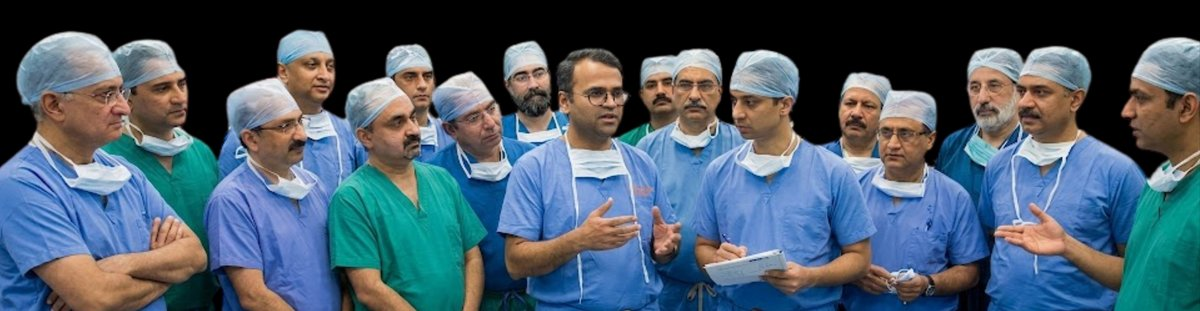
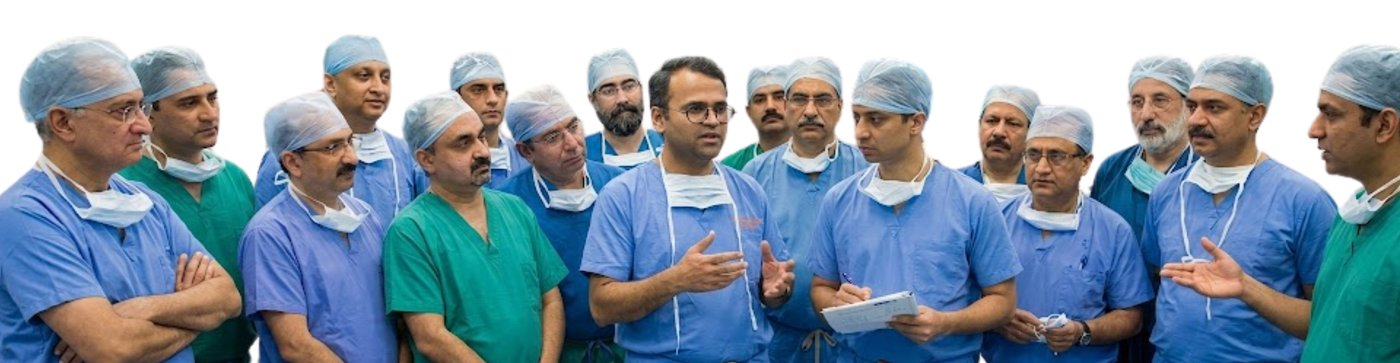
Add files via upload

diff --git a/base/templates/base/components/footer.html b/base/templates/base/components/footer.html
@@ -1,144 +1,34 @@
 {% load static %}
 <footer id="site-footer">
-    <div class="footer-top">
-      <div class="container">
-        <div class="footer-row">
-                      <div class="footer-block wow fadeInUp">
-                    <!-- <div class="footer-block wow fadeInUp"> -->
-            <h4 class="block-title">For Patients</h4>
-            <ul class="footer-links">
-              <li><a href="/contact-us">Find a Doctor</a></li>
-              <!-- <li><a href="#">Video Consultation</a></li> -->
-              <li><a href="/treatments">Treatments</a></li>
-              <li><a href="#" data-toggle="modal" data-target="#deleteMemberModal">Disclaimer</a></li>
-              <li><a href="/patient/terms-conditions" target="_blank">Terms & Conditions</a></li>
-            </ul>
-          </div>
-                      <div class="footer-block wow fadeInUp"  data-wow-delay=".2s">
-                      <h4 class="block-title">Specialities</h4>
-            <ul class="footer-links">
-                                          <li>
-                <a href="/contact-us">Cardiac Care</a>
-              </li>
-
-            </ul>
-          </div>
-                      <div class="footer-block wow fadeInUp"  data-wow-delay=".4s">
-                      <h4 class="block-title">Our Clinic</h4>
-            <ul class="footer-links">
-
-                            <li><a href="/contact-us"> Amritsar</a></li>
-                            <!-- <li><a href="#">More+</a></li> -->
-            </ul>
-          </div>
-                      <div class="footer-block wow fadeInUp"  data-wow-delay=".6s">
-                      <h4 class="block-title">Corporate</h4>
-            <ul class="footer-links">
-              <li><a href="/help-desk">Help Desk</a></li>
-              <li><a href="/about">About us</a></li>
-              <li><a href="/blog">Blogs</a></li>
-              <!-- <li><a href="#">Leadership</a></li> -->
-              <li><a href="/careers">Careers</a></li>
-              <li><a href="/contact-us?type=feedback">Feedback</a></li>
-              <li><a href="/contact-us">Contact Us</a></li>
-            </ul>
-          </div>
-
-                      <div class="footer-block add-download-block wow fadeInUp" data-wow-delay=".8s">
-                      <div class="app-download-header">
-              <h4 class="block-title">Download Our App</h4>
-              <p>Download our App to book your appointments at your finger tips</p>
-            </div>
-            <a href="#" target="_blank"
-              class="download-app-button andoid-app-button"><span><svg width="25" height="24" viewBox="0 0 25 24"
-                  fill="none" xmlns="https://www.w3.org/2000/svg">
-                  <path
-                    d="M4.24056 0.61L19.0764 8.156L15.8965 10.969L4.24056 0.61ZM1.16691 0L14.7853 12L1.16804 24C0.809274 23.8618 0.505995 23.631 0.297857 23.3379C0.0897194 23.0448 -0.0135906 22.7029 0.00143423 22.357V22.36V1.641L0.000303796 1.576C0.000303796 0.875 0.475086 0.272 1.15561 0.005L1.16804 0.001L1.16691 0ZM23.6874 10.594C24.1554 10.901 24.455 11.389 24.455 11.938L24.4539 12.003V12C24.4826 12.2683 24.4322 12.5386 24.3076 12.7845C24.183 13.0304 23.9884 13.2435 23.7428 13.403L23.7383 13.406L20.5584 14.999L17.1151 12L20.5595 8.953L23.6874 10.594ZM4.24056 23.39L15.8976 13.031L19.0775 15.844L4.24056 23.39Z"
-                    fill="#444545" />
-                </svg>
-                Get it on Google Play</span></a>
-            <a href="#" target="_blank"
-              class="download-app-button ios-app-button"><span><svg width="21" height="26" viewBox="0 0 21 26"
-                  fill="none" xmlns="https://www.w3.org/2000/svg">
-                  <path
-                    d="M15.64 0.0129344C15.5851 -0.0484503 13.6063 0.0371652 11.8843 1.90617C10.1623 3.77355 10.4272 5.91556 10.466 5.97048C10.5047 6.0254 12.9214 6.11102 14.464 3.93832C16.0067 1.76563 15.695 0.0759345 15.64 0.0129344ZM20.9934 18.9663C20.9159 18.8112 17.2377 16.9729 17.5801 13.4384C17.9226 9.90233 20.2859 8.9331 20.3231 8.8281C20.3602 8.7231 19.3587 7.55194 18.2974 6.9591C17.5181 6.54112 16.6557 6.30165 15.7725 6.25802C15.598 6.25317 14.9923 6.10456 13.7468 6.4454C12.9262 6.66994 11.0766 7.39686 10.5677 7.42594C10.0573 7.45502 8.53881 6.58271 6.90566 6.35171C5.8605 6.14979 4.75235 6.56333 3.95919 6.88156C3.16765 7.19817 1.66211 8.09956 0.608881 10.4952C-0.444351 12.8892 0.106496 16.6821 0.50065 17.8613C0.894804 19.039 1.51027 20.9693 2.55704 22.378C3.4875 23.9675 4.72165 25.0708 5.23696 25.4456C5.75227 25.8203 7.20612 26.0691 8.21412 25.5538C9.02504 25.0563 10.4886 24.7703 11.0669 24.7913C11.6436 24.8123 12.7808 25.0401 13.9455 25.662C14.8679 25.9803 15.7402 25.8478 16.6141 25.4924C17.4881 25.1354 18.7529 23.7817 20.2294 21.0372C20.7899 19.761 21.0451 19.0713 20.9934 18.9663Z"
-                    fill="#474848" />
-                </svg>
-                Get it on the App Store</span></a>
-            <a href="tel:+919646076888" class="download-app-button emergency-call-button"><span><svg width="29" height="28"
-                  viewBox="0 0 29 28" fill="none" xmlns="https://www.w3.org/2000/svg">
-                  <path
-                    d="M19.125 10.4271L19.0705 10.5092L19.125 10.4271C18.6914 10.1391 18.2278 9.89171 17.7471 9.69181L17.7087 9.78414L17.7471 9.69181C16.7469 9.27589 15.6846 9.06504 14.5903 9.06504C13.496 9.06504 12.4337 9.27589 11.4334 9.69181L11.4334 9.69181C10.9527 9.89171 10.4891 10.1391 10.0555 10.4271L10.11 10.5092L10.0555 10.4271C9.62607 10.7123 9.22234 11.0397 8.85541 11.4005C8.48848 11.7612 8.15533 12.1581 7.86517 12.5804L7.86517 12.5804C7.57216 13.0068 7.32044 13.4627 7.11701 13.9355L7.20887 13.975L7.11701 13.9355C6.69374 14.9193 6.47912 15.9643 6.47912 17.0408V22.1762C6.47912 22.616 6.12264 22.9724 5.6829 22.9724C5.0524 22.9724 4.53672 23.477 4.53672 24.1009V25.9714C4.53672 26.5954 5.0524 27.0999 5.6829 27.0999H23.4977C24.1282 27.0999 24.6439 26.5954 24.6439 25.9714V24.1009C24.6439 23.477 24.1282 22.9724 23.4977 22.9724C23.0579 22.9724 22.7014 22.6159 22.7014 22.1762V17.0408C22.7014 15.9643 22.4868 14.9193 22.0635 13.9355C21.8601 13.4627 21.6084 13.0067 21.3153 12.5804C21.0252 12.1581 20.692 11.7612 20.3251 11.4005C19.9582 11.0397 19.5545 10.7123 19.125 10.4271ZM7.70902 17.0408C7.70902 13.3132 10.7944 10.2775 14.5903 10.2775C18.3861 10.2775 21.4715 13.3132 21.4715 17.0408C21.4715 20.3167 18.8158 22.9724 15.5398 22.9724H13.6407C10.3647 22.9724 7.70902 20.3167 7.70902 17.0408ZM23.414 24.1849V25.8874H5.76662V24.1849H23.414Z"
-                    fill="white" stroke="#F04E30" stroke-width="0.2" />
-                  <path
-                    d="M14.5925 0.9H14.5924C14.2548 0.9 13.9781 1.16952 13.9781 1.50557V7.1671C13.9781 7.50314 14.2548 7.77267 14.5924 7.77267H14.5925C14.9301 7.77267 15.2067 7.50314 15.2067 7.1671V1.50557C15.2067 1.16952 14.9301 0.9 14.5925 0.9Z"
-                    fill="white" stroke="#F04E30" stroke-width="0.2" />
-                  <path
-                    d="M10.1123 8.78825L10.1123 8.78824C10.4169 8.64213 10.5451 8.27938 10.3954 7.97757L10.3954 7.97756L7.87093 2.88905C7.87093 2.88905 7.87093 2.88904 7.87093 2.88904C7.7217 2.5882 7.35413 2.46491 7.05042 2.61051L7.0504 2.61051C6.74577 2.75663 6.61755 3.11938 6.76725 3.42119L6.76725 3.4212L9.29071 8.50754C9.29105 8.50828 9.29141 8.50902 9.29177 8.50975C9.44101 8.81057 9.80856 8.93384 10.1123 8.78825Z"
-                    fill="white" stroke="#F04E30" stroke-width="0.2" />
-                  <path
-                    d="M6.53593 11.7875C6.74579 11.5234 6.69771 11.142 6.42989 10.9363L1.89186 7.45075C1.89186 7.45075 1.89186 7.45075 1.89186 7.45075C1.62504 7.24581 1.23984 7.29191 1.03076 7.55498C0.820874 7.81909 0.868951 8.20049 1.13678 8.4062L5.67474 11.8917C5.94064 12.096 6.3241 12.0509 6.53366 11.7902C6.53443 11.7893 6.53519 11.7884 6.53593 11.7875Z"
-                    fill="white" stroke="#F04E30" stroke-width="0.2" />
-                  <path
-                    d="M21.3113 2.88907L21.3113 2.88906C21.4606 2.58827 21.828 2.46485 22.1318 2.61053L21.3113 2.88907ZM21.3113 2.88907L18.7868 7.97752L18.7868 7.97753C18.6371 8.27932 18.7653 8.64215 19.0699 8.78821L21.3113 2.88907Z"
-                    fill="white" stroke="#F04E30" stroke-width="0.2" />
-                  <mask id="path-6-outside-1_2265_210338" maskUnits="userSpaceOnUse" x="21.6172" y="6.42383" width="7"
-                    height="6" fill="black">
-                    <rect fill="white" x="21.6172" y="6.42383" width="7" height="6" />
-                    <path
-                      d="M-nan -nanL28.0747 7.61818C27.8999 7.39813 27.5767 7.35912 27.3528 7.53104L22.8149 11.0166C22.591 11.1885 22.5514 11.5062 22.7262 11.7263C22.9011 11.9463 23.2243 11.9853 23.4481 11.8134L27.9861 8.32787C28.2099 8.15595 28.2496 7.83823 28.0747 7.61818L-nan -nanL-nan -nanZ" />
-                  </mask>
-                  <path
-                    d="M-nan -nanL28.0747 7.61818C27.8999 7.39813 27.5767 7.35912 27.3528 7.53104L22.8149 11.0166C22.591 11.1885 22.5514 11.5062 22.7262 11.7263C22.9011 11.9463 23.2243 11.9853 23.4481 11.8134L27.9861 8.32787C28.2099 8.15595 28.2496 7.83823 28.0747 7.61818L-nan -nanL-nan -nanZ"
-                    fill="white" />
-                  <path
-                    d="M27.3528 7.53104L27.231 7.37242L27.231 7.37242L27.3528 7.53104ZM22.8149 11.0166L22.9367 11.1752L22.9367 11.1752L22.8149 11.0166ZM23.4481 11.8134L23.57 11.972H23.57L23.4481 11.8134ZM27.9861 8.32787L27.8643 8.16926L27.8643 8.16926L27.9861 8.32787ZM28.2313 7.49374C27.988 7.18764 27.5408 7.13447 27.231 7.37242L27.4747 7.68965C27.6125 7.58377 27.8117 7.60862 27.9182 7.74261L28.2313 7.49374ZM27.231 7.37242L22.6931 10.858L22.9367 11.1752L27.4747 7.68965L27.231 7.37242ZM22.6931 10.858C22.3812 11.0975 22.3248 11.5425 22.5697 11.8507L22.8828 11.6018C22.778 11.4699 22.8009 11.2795 22.9367 11.1752L22.6931 10.858ZM22.5697 11.8507C22.8129 12.1568 23.2602 12.21 23.57 11.972L23.3263 11.6548C23.1885 11.7607 22.9893 11.7358 22.8828 11.6018L22.5697 11.8507ZM23.57 11.972L28.1079 8.48648L27.8643 8.16926L23.3263 11.6548L23.57 11.972ZM28.1079 8.48648C28.4197 8.24698 28.4762 7.80191 28.2313 7.49374L27.9182 7.74261C28.023 7.87455 28.0001 8.06492 27.8643 8.16926L28.1079 8.48648Z"
-                    fill="#F04E30" mask="url(#path-6-outside-1_2265_210338)" />
-                  <mask id="path-8-outside-2_2265_210338" maskUnits="userSpaceOnUse" x="12.793" y="11.1934" width="6"
-                    height="6" fill="black">
-                    <rect fill="white" x="12.793" y="11.1934" width="6" height="6" />
-                    <path
-                      d="M-nan -nanL17.3272 13.456C16.9313 13.0602 16.4701 12.7494 15.9563 12.5322C15.4242 12.3074 14.859 12.1934 14.2766 12.1934C14.0095 12.1934 13.793 12.4099 13.793 12.677C13.793 12.9441 14.0095 13.1606 14.2766 13.1606C16.1216 13.1606 17.6226 14.6617 17.6226 16.5066C17.6226 16.7737 17.8392 16.9903 18.1063 16.9903C18.3734 16.9903 18.5899 16.7737 18.5899 16.5066C18.5899 15.9241 18.4759 15.3591 18.251 14.827C18.0339 14.3132 17.7231 13.8519 17.3272 13.456L-nan -nanL-nan -nanZ" />
-                  </mask>
-                  <path
-                    d="M-nan -nanL17.3272 13.456C16.9313 13.0602 16.4701 12.7494 15.9563 12.5322C15.4242 12.3074 14.859 12.1934 14.2766 12.1934C14.0095 12.1934 13.793 12.4099 13.793 12.677C13.793 12.9441 14.0095 13.1606 14.2766 13.1606C16.1216 13.1606 17.6226 14.6617 17.6226 16.5066C17.6226 16.7737 17.8392 16.9903 18.1063 16.9903C18.3734 16.9903 18.5899 16.7737 18.5899 16.5066C18.5899 15.9241 18.4759 15.3591 18.251 14.827C18.0339 14.3132 17.7231 13.8519 17.3272 13.456L-nan -nanL-nan -nanZ"
-                    fill="white" />
-                  <path
-                    d="M15.9563 12.5322L15.8784 12.7165L15.8784 12.7165L15.9563 12.5322ZM18.251 14.827L18.0668 14.9048L18.0668 14.9049L18.251 14.827ZM17.4686 13.3146C17.0546 12.9006 16.5718 12.5752 16.0341 12.348L15.8784 12.7165C16.3684 12.9235 16.8081 13.2198 17.1858 13.5975L17.4686 13.3146ZM16.0341 12.348C15.4772 12.1126 14.8856 11.9934 14.2766 11.9934V12.3934C14.8325 12.3934 15.3712 12.5021 15.8784 12.7165L16.0341 12.348ZM14.2766 11.9934C13.8991 11.9934 13.593 12.2994 13.593 12.677H13.993C13.993 12.5204 14.12 12.3934 14.2766 12.3934V11.9934ZM13.593 12.677C13.593 13.0546 13.8991 13.3606 14.2766 13.3606V12.9606C14.12 12.9606 13.993 12.8336 13.993 12.677H13.593ZM14.2766 13.3606C16.0111 13.3606 17.4226 14.7721 17.4226 16.5066H17.8226C17.8226 14.5512 16.2321 12.9606 14.2766 12.9606V13.3606ZM17.4226 16.5066C17.4226 16.8842 17.7287 17.1903 18.1063 17.1903V16.7903C17.9496 16.7903 17.8226 16.6633 17.8226 16.5066H17.4226ZM18.1063 17.1903C18.4838 17.1903 18.7899 16.8842 18.7899 16.5066H18.3899C18.3899 16.6633 18.2629 16.7903 18.1063 16.7903V17.1903ZM18.7899 16.5066C18.7899 15.8976 18.6706 15.3061 18.4352 14.7491L18.0668 14.9049C18.2812 15.4121 18.3899 15.9507 18.3899 16.5066H18.7899ZM18.4352 14.7492C18.2081 14.2115 17.8827 13.7287 17.4686 13.3146L17.1858 13.5975C17.5635 13.9752 17.8597 14.4149 18.0668 14.9048L18.4352 14.7492Z"
-                    fill="#F04E30" mask="url(#path-8-outside-2_2265_210338)" />
-                </svg>
-
-                +91 96460-76888</span></a>
-          </div>
-        </div>
+    
       </div>
     </div>
 
           <div class="footer-bottom wow fadeInUp" data-wow-delay=".9s">
           <div class="container">
         <div class="social-links">
-          <a href="#" target="_blank" class="social-icon fb"><svg width="22" height="22"
+          <a href="/contact-us" target="_blank" class="social-icon fb"><svg width="22" height="22"
               viewBox="0 0 22 22" fill="none" xmlns="https://www.w3.org/2000/svg">
               <path
                 d="M21.8346 10.9994C21.8346 5.01935 16.9813 0.166016 11.0013 0.166016C5.0213 0.166016 0.167969 5.01935 0.167969 10.9994C0.167969 16.2427 3.89464 20.6085 8.83464 21.616V14.2494H6.66797V10.9994H8.83464V8.29102C8.83464 6.20018 10.5355 4.49935 12.6263 4.49935H15.3346V7.74935H13.168C12.5721 7.74935 12.0846 8.23685 12.0846 8.83268V10.9994H15.3346V14.2494H12.0846V21.7785C17.5555 21.2369 21.8346 16.6219 21.8346 10.9994Z"
                 fill="#444545" />
             </svg>
           </a>
-          <a href="#" target="_blank" class="social-icon tw">
+          <a href="/contact-us" target="_blank" class="social-icon tw">
             <svg width="24" height="22" viewBox="0 0 24 22" fill="none" xmlns="https://www.w3.org/2000/svg">
               <path
                 d="M0.785947 0.236816L9.66598 12.11L0.72998 21.7636H2.74127L10.5649 13.3116L16.8859 21.7636H23.73L14.3501 9.2226L22.6678 0.236816H20.6565L13.4516 8.02069L7.62998 0.236816H0.785947ZM3.74364 1.71817H6.88776L20.7719 20.2822H17.6278L3.74364 1.71817Z"
                 fill="#444545" />
             </svg>
           </a>
-          <a href="#" target="_blank" class="social-icon insta"><svg width="24"
+          <a href="/contact-us" target="_blank" class="social-icon insta"><svg width="24"
               height="22" viewBox="0 0 24 22" fill="none" xmlns="https://www.w3.org/2000/svg">
               <path fill-rule="evenodd" clip-rule="evenodd"
                 d="M7.05273 0.066C8.33236 0.012 8.74036 0 12 0C15.2596 0 15.6676 0.013 16.9462 0.066C18.2247 0.119 19.0975 0.306 19.8611 0.577C20.6607 0.854 21.3862 1.287 21.9862 1.847C22.5971 2.396 23.0684 3.06 23.3695 3.794C23.6662 4.494 23.8691 5.294 23.928 6.464C23.9869 7.639 24 8.013 24 11C24 13.988 23.9858 14.362 23.928 15.535C23.8702 16.705 23.6662 17.505 23.3695 18.205C23.0684 18.9391 22.5963 19.6042 21.9862 20.154C21.3862 20.714 20.6607 21.146 19.8611 21.422C19.0975 21.694 18.2247 21.88 16.9484 21.934C15.6676 21.988 15.2596 22 12 22C8.74036 22 8.33236 21.987 7.05273 21.934C5.77636 21.881 4.90364 21.694 4.14 21.422C3.33919 21.146 2.61362 20.7133 2.01382 20.154C1.40332 19.6047 0.930889 18.9399 0.629455 18.206C0.333818 17.506 0.130909 16.706 0.072 15.536C0.0130909 14.361 0 13.987 0 11C0 8.012 0.0141818 7.638 0.072 6.466C0.129818 5.294 0.333818 4.494 0.629455 3.794C0.931334 3.06008 1.40413 2.39531 2.01491 1.846C2.61386 1.2865 3.3387 0.853443 4.13891 0.577C4.90255 0.306 5.77527 0.12 7.05164 0.066H7.05273ZM16.8491 2.046C15.5836 1.993 15.204 1.982 12 1.982C8.796 1.982 8.41636 1.993 7.15091 2.046C5.98036 2.095 5.34545 2.274 4.92218 2.425C4.36255 2.625 3.96218 2.862 3.54218 3.247C3.14405 3.60205 2.83765 4.03428 2.64545 4.512C2.48073 4.9 2.28545 5.482 2.232 6.555C2.17418 7.715 2.16218 8.063 2.16218 11C2.16218 13.937 2.17418 14.285 2.232 15.445C2.28545 16.518 2.48073 17.1 2.64545 17.488C2.83745 17.965 3.144 18.398 3.54218 18.753C3.92945 19.118 4.40182 19.399 4.92218 19.575C5.34545 19.726 5.98036 19.905 7.15091 19.954C8.41636 20.007 8.79491 20.018 12 20.018C15.2051 20.018 15.5836 20.007 16.8491 19.954C18.0196 19.905 18.6545 19.726 19.0778 19.575C19.6375 19.375 20.0378 19.138 20.4578 18.753C20.856 18.398 21.1625 17.965 21.3545 17.488C21.5193 17.1 21.7145 16.518 21.768 15.445C21.8258 14.285 21.8378 13.937 21.8378 11C21.8378 8.063 21.8258 7.715 21.768 6.555C21.7145 5.482 21.5193 4.9 21.3545 4.512C21.1364 3.999 20.8778 3.632 20.4578 3.247C20.0705 2.88207 19.5989 2.60121 19.0778 2.425C18.6545 2.274 18.0196 2.095 16.8491 2.046ZM10.4673 14.391C11.3233 14.7176 12.2764 14.7617 13.1639 14.5157C14.0514 14.2697 14.8182 13.7489 15.3334 13.0422C15.8485 12.3356 16.0801 11.4869 15.9884 10.6411C15.8968 9.79534 15.4876 9.00497 14.8309 8.405C14.4123 8.02148 13.906 7.72781 13.3487 7.54515C12.7914 7.36248 12.1968 7.29536 11.6078 7.34862C11.0188 7.40187 10.45 7.57418 9.94233 7.85313C9.43468 8.13208 9.00081 8.51074 8.67197 8.96185C8.34312 9.41296 8.12748 9.92529 8.04056 10.462C7.95365 10.9986 7.99762 11.5463 8.16932 12.0655C8.34101 12.5847 8.63616 13.0626 9.03351 13.4647C9.43087 13.8668 9.92054 14.1832 10.4673 14.391ZM7.63855 7.002C8.2113 6.47697 8.89126 6.0605 9.6396 5.77636C10.3879 5.49222 11.19 5.34597 12 5.34597C12.81 5.34597 13.6121 5.49222 14.3604 5.77636C15.1087 6.0605 15.7887 6.47697 16.3615 7.002C16.9342 7.52702 17.3885 8.15032 17.6985 8.8363C18.0085 9.52228 18.168 10.2575 18.168 11C18.168 11.7425 18.0085 12.4777 17.6985 13.1637C17.3885 13.8497 16.9342 14.473 16.3615 14.998C15.2047 16.0583 13.6359 16.654 12 16.654C10.3641 16.654 8.79528 16.0583 7.63855 14.998C6.48182 13.9377 5.83197 12.4995 5.83197 11C5.83197 9.50046 6.48182 8.06234 7.63855 7.002ZM19.536 6.188C19.6779 6.06527 19.7916 5.91768 19.8701 5.75397C19.9487 5.59027 19.9907 5.41377 19.9935 5.23493C19.9964 5.05609 19.9601 4.87855 19.8867 4.71281C19.8134 4.54707 19.7045 4.39651 19.5665 4.27004C19.4285 4.14357 19.2643 4.04376 19.0835 3.97652C18.9027 3.90928 18.709 3.87598 18.5139 3.87858C18.3188 3.88119 18.1263 3.91965 17.9477 3.9917C17.7691 4.06374 17.6081 4.1679 17.4742 4.298C17.2138 4.55103 17.0712 4.88712 17.0768 5.23493C17.0823 5.58274 17.2355 5.91488 17.5038 6.16084C17.7721 6.40681 18.1345 6.54723 18.5139 6.5523C18.8933 6.55737 19.26 6.42669 19.536 6.188Z"
                 fill="#444545" />
             </svg>
           </a>
-          <a href="#" target="_blank" class="social-icon yt"><svg
+          <a href="/contact-us" target="_blank" class="social-icon yt"><svg
               width="26" height="20" viewBox="0 0 26 20" fill="none" xmlns="https://www.w3.org/2000/svg">
               <path
                 d="M25.7413 4.79999C25.7413 4.79999 25.4878 3.00762 24.7062 2.22112C23.7166 1.18599 22.6083 1.17949 22.1013 1.11937C18.4662 0.854492 13.0062 0.854492 13.0062 0.854492H12.9964C12.9964 0.854492 7.53806 0.854492 3.90131 1.11937C3.39269 1.18112 2.28606 1.18599 1.29644 2.22112C0.514812 3.00762 0.266188 4.79999 0.266188 4.79999C0.266188 4.79999 0.0078125 6.90274 0.0078125 9.01037V10.9815C0.0078125 13.0842 0.266188 15.1919 0.266188 15.1919C0.266188 15.1919 0.519687 16.9842 1.29644 17.7724C2.28606 18.8075 3.58606 18.7734 4.16619 18.8839C6.24781 19.0821 13.0078 19.1422 13.0078 19.1422C13.0078 19.1422 18.4727 19.1325 22.1078 18.8725C22.6164 18.8124 23.7231 18.8059 24.7127 17.7707C25.4943 16.9842 25.7478 15.1902 25.7478 15.1902C25.7478 15.1902 26.0062 13.0875 26.0062 10.9799V9.00874C26.0013 6.90599 25.7429 4.79837 25.7429 4.79837L25.7413 4.79999ZM10.3136 13.3719V6.06424L17.3368 9.73024L10.3136 13.3719Z"
@@ -156,7 +46,7 @@
  <div class="mobile-sticky-links">
     <ul>
       <li>
-        <a class="toggle-menu" href="#">
+        <a class="toggle-menu" href="/contact-us">
           <div class="icon open-icon">
             <svg width="20" height="14" viewBox="0 0 20 14" fill="none" xmlns="https://www.w3.org/2000/svg">
               <path d="M1 7H19" stroke="#F04E30" stroke-linecap="round" stroke-linejoin="round" />

diff --git a/base/templates/base/index.html b/base/templates/base/index.html
@@ -279,7 +279,7 @@
             <!-- Livewire Component wire-end:PpD48Wd0WLexrnzkVLS8 -->
         </div>
         <div class="md-bannerfloat slick-arrow-style-1">
-            <a href="#" class="md-bannerfloatinner active lefthover" target="_blank">
+            <a href="/contact-us" class="md-bannerfloatinner active lefthover" target="_blank">
                 <svg width="48" height="48" viewBox="0 0 48 48" fill="none" xmlns="https://www.w3.org/2000/svg">
                     <path
                         d="M36.999 25.043C34.0817 25.043 31.2836 26.2524 29.2206 28.4051C27.1576 30.5577 25.9986 33.4775 25.9986 36.5216C25.9986 39.5658 27.1576 42.4855 29.2206 44.6382C31.2836 46.7909 34.0817 48.0003 36.999 48.0003C39.9164 48.0003 42.7145 46.7909 44.7774 44.6382C46.8404 42.4855 47.9995 39.5658 47.9995 36.5216C47.9995 33.4775 46.8404 30.5577 44.7774 28.4051C42.7145 26.2524 39.9164 25.043 36.999 25.043ZM36.999 45.9133C34.6118 45.9133 32.3226 44.924 30.6347 43.1627C28.9467 41.4014 27.9987 39.0126 27.9987 36.5216C27.9987 34.0307 28.9468 31.642 30.6347 29.8806C32.3226 28.1193 34.6118 27.13 36.999 27.13C39.3862 27.13 41.6754 28.1193 43.3634 29.8806C45.0514 31.6419 45.9994 34.0307 45.9994 36.5216C45.9994 39.0126 45.0513 41.4013 43.3634 43.1627C41.6755 44.924 39.3862 45.9133 36.999 45.9133Z"
@@ -394,7 +394,7 @@
                 <span>Get Health Checkup</span>
             </a>
 
-            <a href="#" class="md-bannerfloatinner pathfill">
+            <a href="/contact-us" class="md-bannerfloatinner pathfill">
                 <svg width="35" height="50" viewBox="0 0 35 50" fill="none" xmlns="https://www.w3.org/2000/svg">
                     <path
                         d="M11.7606 5.30971C10.6214 5.25144 9.7154 4.30998 9.7154 3.156C9.7154 2.00202 10.6809 1 11.8714 1H22.4994C23.69 1 24.6554 1.96546 24.6554 3.156C24.6554 4.34654 23.69 5.312 22.4994 5.312H22.6137V17.5259C28.8829 19.7562 33.372 25.7431 33.372 32.7778C33.372 41.7172 26.1248 48.9633 17.1866 48.9633C8.24836 48.9633 1 41.7172 1 32.7778C1 25.7431 5.48795 19.7562 11.7571 17.5248V5.312"
@@ -579,14 +579,14 @@
                                         <span></span> </a>
                                 </div>
                                                     </div>
-                        <a href="#" class="abc">
+                        <a href="/contact-us" class="abc">
                             <div datasrc="https://medanta.s3.ap-south-1.amazonaws.com/why-medanta/February2025/BSF6wb9Jy9RYe7dff9ulUMLYcUqZdF-metaVUIzSVp3QlFCa01INlY0TnRjbVBWcmFTbGtMd3ZnLW1ldGFaWGhqWlhCMGFXOXVZV3d0WTJ4cGJtbGpZV3d0ZEdGc1pXNTBMVzF2WWk1M1pXSnctLndlYnA=-.webp" class="click-circle active"></div>
                         </a>
                     </div>
 
                     <div class="why-block-b blocking-hover wow fadeInRight" data-wow-delay=".5s">
                         
-                        <a href="#" class="abc">
+                        <a href="/contact-us" class="abc">
                             <div datasrc="https://medanta.s3.ap-south-1.amazonaws.com/why-medanta/February2025/peR7WZR9LK7BoOgZbWJIJqn6ksX8ZA-metabk1MdlNVbHo2eXNhaExpVGplUDNaVlhZWU93azJHLW1ldGFWMjl5YkdRdFkyeGhjM010YVc1bWNtRnpkSEoxWTNSMWNtVXRiVzlpTG5kbFluQT0tLndlYnA=-.webp" class="click-circle "></div>
                         </a>
                         <div class="click-text">
@@ -600,7 +600,7 @@
 
                     <div class="why-block-c blocking-hover wow fadeInRight" data-wow-delay=".7s">
                         
-                        <a href="#" >
+                        <a href="/contact-us" >
                             <div datasrc="https://medanta.s3.ap-south-1.amazonaws.com/why-medanta/February2025/zQMTRtc5q34ynvGYpsBLdLmAwJE6NG-metadVdKNkdKMm81Z1JIN0pSV0xFdjRPZGRFOXVBVzRGLW1ldGFUR0YwWlhOMElIcGhaMmd0Wlc1a0lIUmxZMmh1YjJ4dloza3RiVzlpYVd4bExuZGxZbkE9LS53ZWJw-.webp" class="click-circle "></div>
                         </a>
                         <div class="click-text">
@@ -620,7 +620,7 @@
                                         <span></span> </a>
                                 </div>
                                                     </div>
-                        <a href="#" >
+                        <a href="/contact-us" >
                             <div datasrc="https://medanta.s3.ap-south-1.amazonaws.com/why-medanta/February2025/grUwVDzQHyIfRxE5UeWmGW4G2DLsSW-metadXI0RkRoNE1yN29IUDNaQVRxOTJDZnNMVUFvTnQwLW1ldGFZMkZ5YVc1bkxYTjVjM1JsYlhNdFlXNWtMWEJ5YjJObGMzTmxjeTF0YjJJdWQyVmljQT09LS53ZWJw-.webp" class="click-circle "></div>
                         </a>
                     </div>
@@ -633,7 +633,7 @@
                                         <span></span> </a>
                                 </div>
                                                     </div>
-                        <a href="#" >
+                        <a href="/contact-us" >
                             <div datasrc="https://medanta.s3.ap-south-1.amazonaws.com/why-medanta/February2025/P8Xpz7LG6eJpZmhpJRafdDZ6rCHha6-metac1NLaW1zbU1iRUt2ZXl4OWVxUGdhM1haNjJIZjloLW1ldGFkSEoxYzNRdFltRnpaV1F0WTI1dGNHRnpjMmx2Ym1GMFpTMWpZWEpsTFcxdlltbHNaUzUzWldKdy0ud2VicA==-.webp" class="click-circle "></div>
                         </a>
                     </div>
@@ -651,7 +651,7 @@
                                             <li>
                             <h3 class="heading-sm accor-heading active">Angiography</h3>
                             <div class="accor-collepse-wraper" style="display: block">
-                                <img  loading="lazy" src="{% static 'base/images/clinic-photo.jpg' %}" alt="why-medanta" width="460" height="460"/>
+                                <img  loading="lazy" src="https://medanta.s3.ap-south-1.amazonaws.com/why-medanta/January2025/SAaBLwOTiDeA1koPWX1qrQb6Ddqj0F-metadHJ1c3QtYmFzZWQtY29tcGFzc2lvbmF0ZS1jYXJlLW1vYmlsZS53ZWJw-.webp" alt="why-medanta" width="460" height="460"/>
                                                                     <div class="common-button">
                                         <a href="/service/nephrology/" class="anchor-button">Know More <span></span> </a>
                                     </div>
@@ -720,7 +720,7 @@
                             </div>
                             <div class="card-button dflex space-between centered-items">
                                 <div class="common-button">
-                                    <a href="/service/angiography/" class="anchor-button">Know More
+                                    <a href="/contact-us" class="anchor-button">Know More
                                         <span></span> </a>
                                 </div>
                                 <div class="services-logo">
@@ -757,7 +757,7 @@
                             </div>
                             <div class="card-button dflex space-between centered-items">
                                 <div class="common-button">
-                                    <a href="/service/pacemaker/" class="anchor-button">Know More
+                                    <a href="/contact-us" class="anchor-button">Know More
                                         <span></span> </a>
                                 </div>
                                 <div class="services-logo">
@@ -779,7 +779,7 @@
                             </div>
                             <div class="card-button dflex space-between centered-items">
                                 <div class="common-button">
-                                    <a href="/service/echocardiography/" class="anchor-button">Know More
+                                    <a href="/contact-us" class="anchor-button">Know More
                                         <span></span> </a>
                                 </div>
                                 <div class="services-logo">
@@ -808,7 +808,7 @@
                         </div>
                         <div class="card-button dflex space-between centered-items">
                             <div class="common-button">
-                                <a href="/service/angiography/" class="anchor-button">Know More
+                                <a href="/contact-us" class="anchor-button">Know More
                                     <span></span> </a>
                             </div>
                             <div class="services-logo">
@@ -856,7 +856,7 @@
                         </div>
                         <div class="card-button dflex space-between centered-items">
                             <div class="common-button">
-                                <a href="/service/pacemaker/" class="anchor-button">Know More
+                                <a href="/contact-us" class="anchor-button">Know More
                                     <span></span> </a>
                             </div>
                             <div class="services-logo">
@@ -880,7 +880,7 @@
                         </div>
                         <div class="card-button dflex space-between centered-items">
                             <div class="common-button">
-                                <a href="/service/echocardiography/" class="anchor-button">Know More
+                                <a href="/contact-us" class="anchor-button">Know More
                                     <span></span> </a>
                             </div>
                             <div class="services-logo">
@@ -1061,7 +1061,7 @@
                     </div>
                     <div class="award-year medantasmheading font500"><span>2023</span></div>
                     <div class="awrad-desc medantaxxsheading font600">
-                        <p>Dr. Gaurav Mohan Amritsar Best Private Clinic In India Faor 4 Years In A Row - Newsweek</p>
+                        <p>Top Cardiologist Punjab 2023 - Dr. Gaurav Mohan</p>
                     </div>
                     <div class="leaf leaf-right">
                         <img  loading="lazy" src="{% static 'base/images/icons/upwards-arrow.png' %}" alt="awards-and-recognitions" width="50" height="108">

diff --git a/base/templates/base/components/header.html b/base/templates/base/components/header.html
@@ -1,11 +1,20 @@
 {% load static %}
+<style>
+@media (max-width: 767px) {
+  .logo a span { font-size: 14px !important; }
+  .logo a span small { font-size: 9px !important; }
+  .logo a img { height: 40px !important; width: 40px !important; }
+  .logo { max-width: 200px; overflow: hidden; }
+}
+</style>
+
 <!-- Header Section -->
 <header class="site-header">
     <div class="container dflex space-between centered-items">
         <div class="logo">
-          <a href="/" style="display:flex;align-items:center;gap:10px;text-decoration:none;">
-            <img src="{% static 'base/images/logo.png' %}" alt="Dr. Gaurav Mohan - Sudharshan Heart Clinic" style="height:50px;width:auto;" onerror="this.style.display='none'">
-            <span style="font-size:20px;font-weight:700;color:#1a1a1a;line-height:1.2;">Dr. Gaurav Mohan<br><small style="font-size:11px;font-weight:400;color:#666;">Sudharshan Heart Clinic</small></span>
+          <a href="/" style="display:flex;align-items:center;gap:8px;text-decoration:none;">
+            <img src="{% static 'base/images/logo.png' %}" alt="Dr. Gaurav Mohan Sudharshan Heart Clinic" style="height:55px;width:55px;object-fit:contain;border-radius:50%;">
+            <span style="font-size:18px;font-weight:700;color:#1a1a1a;line-height:1.2;white-space:nowrap;">Dr. Gaurav Mohan<br><small style="font-size:10px;font-weight:400;color:#888;white-space:nowrap;">Sudharshan Heart Clinic</small></span>
           </a>
       </div>
       <div wire:id="ZmZpLKCmekEgezlc10Dq" wire:initial-data="{&quot;fingerprint&quot;:{&quot;id&quot;:&quot;ZmZpLKCmekEgezlc10Dq&quot;,&quot;name&quot;:&quot;header&quot;,&quot;locale&quot;:&quot;en&quot;,&quot;path&quot;:&quot;\/&quot;,&quot;method&quot;:&quot;GET&quot;,&quot;v&quot;:&quot;acj&quot;},&quot;effects&quot;:{&quot;listeners&quot;:[]},&quot;serverMemo&quot;:{&quot;children&quot;:[],&quot;errors&quot;:[],&quot;htmlHash&quot;:&quot;8788e961&quot;,&quot;data&quot;:{&quot;hospitals&quot;:[],&quot;mediclinics&quot;:null,&quot;specialities&quot;:[],&quot;stackholderTabs&quot;:null},&quot;dataMeta&quot;:{&quot;modelCollections&quot;:{&quot;hospitals&quot;:{&quot;class&quot;:&quot;App\\Models\\Clinic&quot;,&quot;id&quot;:[1,2,3,4,12],&quot;relations&quot;:[],&quot;connection&quot;:&quot;mysql&quot;,&quot;collectionClass&quot;:null},&quot;specialities&quot;:{&quot;class&quot;:&quot;App\\Models\\Speciality&quot;,&quot;id&quot;:[110,112,137,138,9,111],&quot;relations&quot;:[],&quot;connection&quot;:&quot;mysql&quot;,&quot;collectionClass&quot;:&quot;Kalnoy\\Nestedset\\Collection&quot;}}},&quot;checksum&quot;:&quot;b3ae940942a2f4b6812cc18ed09b12b25ddbb7043a8ea881030dd6e34bca2679&quot;}}">
@@ -30,7 +39,7 @@
     <nav>
         <ul class="menu">
             <li class="has-submenu">
-                <a href="#" class="open-submenu">Our Clinic</a>
+                <a href="/contact-us" class="open-submenu">Our Clinic</a>
                 <button type="button" class="open-dropdown">
                     <svg width="12" height="7" viewBox="0 0 12 7" fill="none" xmlns="https://www.w3.org/2000/svg">
                         <path d="M11 1L6 6L1 1" stroke="#58595B" stroke-width="1.5" stroke-linecap="round" stroke-linejoin="round"/>
@@ -47,7 +56,7 @@
             </ul>
         </li>
         <li class="has-submenu">
-            <a href="#" class="open-submenu">Services</a>
+            <a href="/contact-us" class="open-submenu">Services</a>
             <button type="button" class="open-dropdown" aria-label="Open submenu">
                 <svg width="12" height="7" viewBox="0 0 12 7" fill="none" xmlns="https://www.w3.org/2000/svg">
                     <path d="M11 1L6 6L1 1" stroke="#58595B" stroke-width="1.5" stroke-linecap="round" stroke-linejoin="round"/>
@@ -67,7 +76,7 @@
             </ul>
         </li>
         <li class="has-submenu">
-            <a href="#" class="open-submenu">Health Library</a>
+            <a href="/contact-us" class="open-submenu">Health Library</a>
             <button type="button" class="open-dropdown" aria-label="Open submenu">
                 <svg width="12" height="7" viewBox="0 0 12 7" fill="none" xmlns="https://www.w3.org/2000/svg">
                     <path d="M11 1L6 6L1 1" stroke="#58595B" stroke-width="1.5" stroke-linecap="round" stroke-linejoin="round"/>
@@ -79,7 +88,7 @@
         </li>
        
         <li class="has-submenu">
-            <a href="#" class="open-submenu">International Patients</a>
+            <a href="/contact-us" class="open-submenu">International Patients</a>
             <button type="button" class="open-dropdown" aria-label="Open submenu">
                 <svg width="12" height="7" viewBox="0 0 12 7" fill="none" xmlns="https://www.w3.org/2000/svg">
                     <path d="M11 1L6 6L1 1" stroke="#58595B" stroke-width="1.5" stroke-linecap="round" stroke-linejoin="round"/>
@@ -93,7 +102,7 @@
 
         
         <li class="has-submenu">
-            <a href="#" class="open-submenu">Contact Us</a>
+            <a href="/contact-us" class="open-submenu">Contact Us</a>
             <button type="button" class="open-dropdown" aria-label="Open submenu">
                 <svg width="12" height="7" viewBox="0 0 12 7" fill="none" xmlns="https://www.w3.org/2000/svg">
                     <path d="M11 1L6 6L1 1" stroke="#58595B" stroke-width="1.5" stroke-linecap="round" stroke-linejoin="round"/>

diff --git a/base/templates/base/contact.html b/base/templates/base/contact.html
@@ -1626,7 +1626,7 @@
             }
         </style>
      
-        <iframe width="100%" class="map" height="600" src="https://www.google.com/maps/embed?pb=!1m18!1m12!1m3!1d3151.8354345097975!2d144.9556513159045!3d-37.81732797975171!2m3!1f0!2f0!3f0!3m2!1i1024!2i768!4f13.1!3m3!1m2!1s0x0%3A0x0!2zMzfCsDQ5JzAyLjQiUyAxNDTCsDU3JzIyLjMiRQ!5e0!3m2!1sen!2sus!4v1614111111111" style="border:0;" allowfullscreen=""
+        <iframe width="100%" class="map" height="600" src="https://www.google.com/maps/embed?pb=!1m18!1m12!1m3!1d3397.1234567890!2d74.8723!3d31.6340!2m3!1f0!2f0!3f0!3m2!1i1024!2i768!4f13.1!3m3!1m2!1s0x0%3A0x0!2sSudharshan%20Heart%20Clinic!5e0!3m2!1sen!2sin!4v1234567890" style="border:0;" allowfullscreen=""
             loading="lazy" id="myIframe" referrerpolicy="no-referrer-when-downgrade"></iframe>
     </div>
     <script>